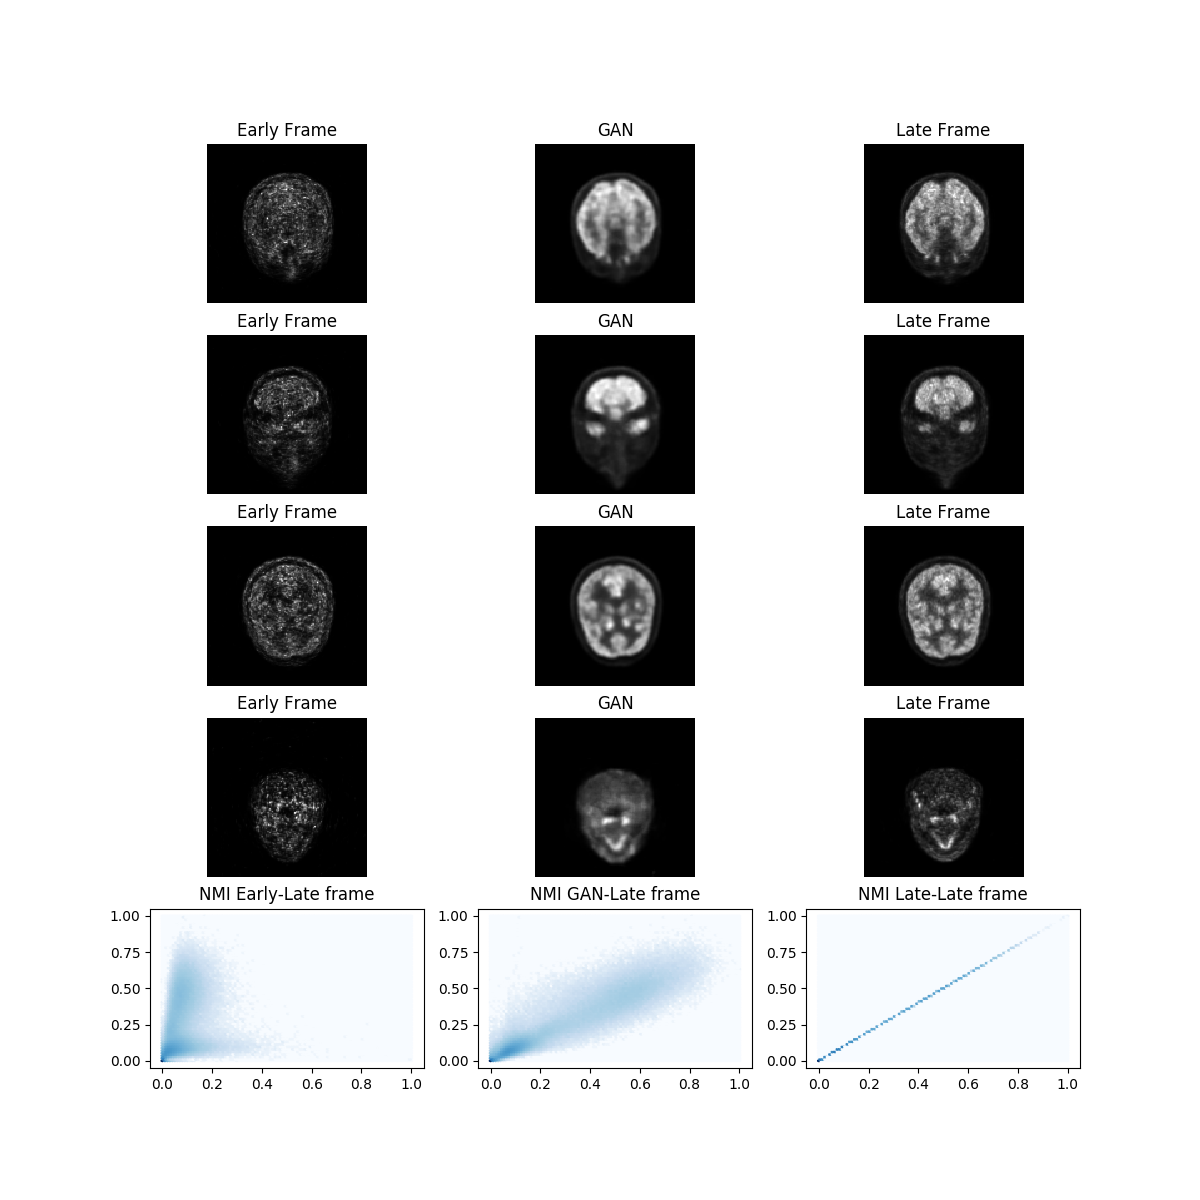
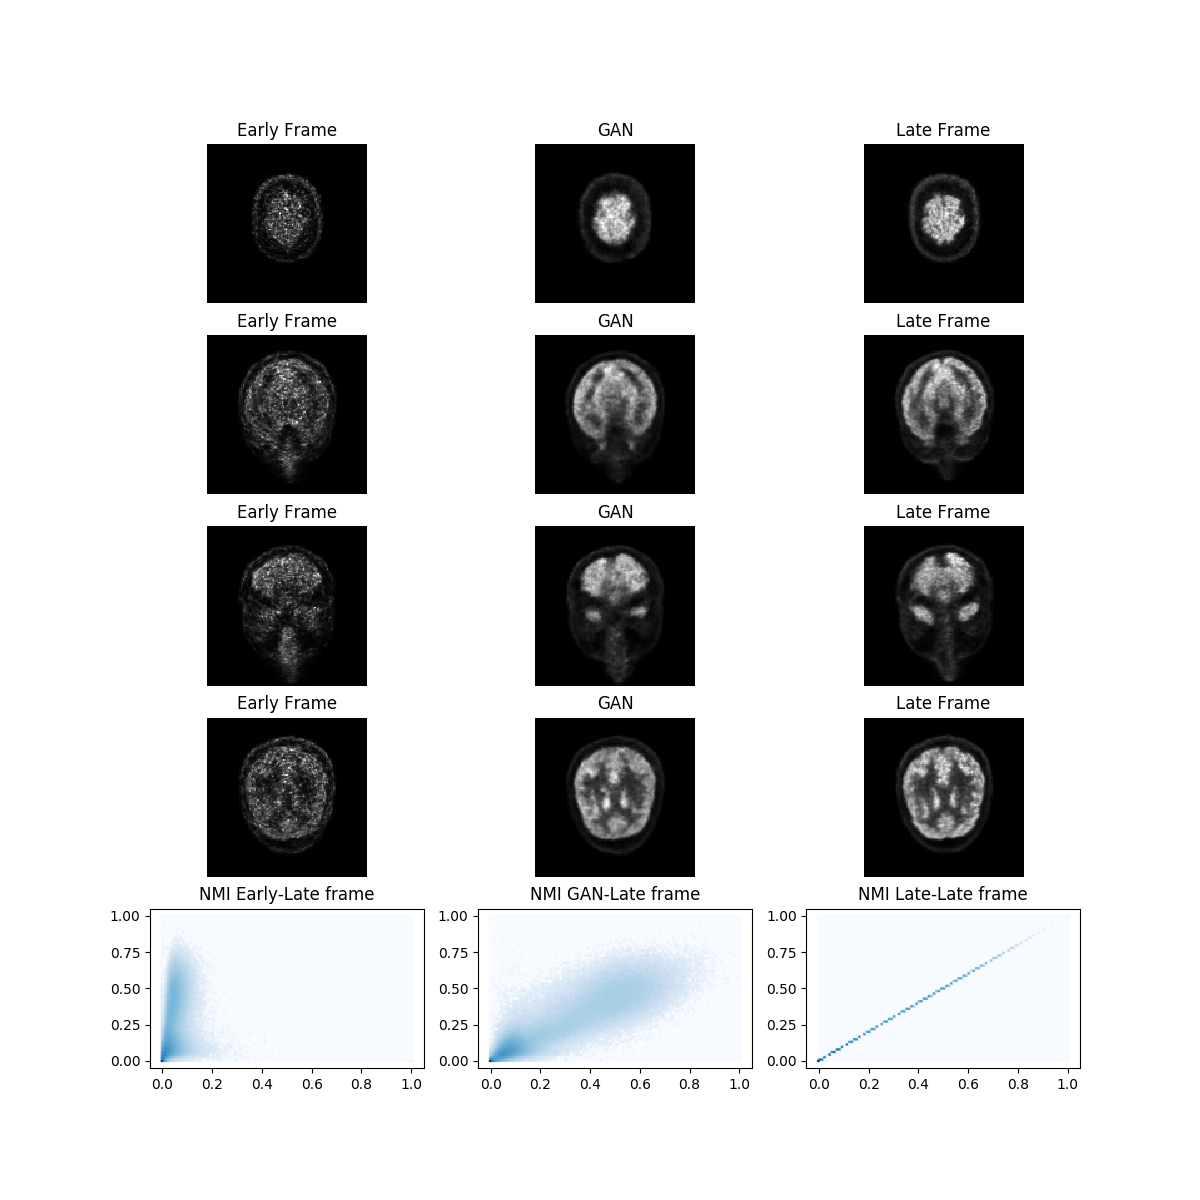
definive update

diff --git a/predict_single_image.py b/predict_single_image.py
@@ -23,10 +23,10 @@ from collections import OrderedDict
 
 parser = argparse.ArgumentParser()
 parser.add_argument('--multi_gpu', default=True, help='Multi or single Gpu')
-parser.add_argument('--gpu_id', default='2,3', help='Select the GPU')
-parser.add_argument("--image", type=str, default='./Data_folder/image.nii')
+parser.add_argument('--gpu_id', default='1', help='Select the GPU')
+parser.add_argument("--image", type=str, default='./Data_folder/test/patient_5/image.nii')
 parser.add_argument("--label", type=str, default=None)
-parser.add_argument("--result", type=str, default='./Data_folder/result.nii', help='path to the .nii result to save')
+parser.add_argument("--result", type=str, default='./Data_folder/test/patient_5/result.nii', help='path to the .nii result to save')
 parser.add_argument("--weights", type=str, default='./checkpoints/g_epoch_200.pth', help='generator weights to load')
 parser.add_argument("--resample", default=False, help='Decide or not to resample the images to a new resolution')
 parser.add_argument("--new_resolution", type=float, default=(0.625, 0.625, 1), help='New resolution')
@@ -180,11 +180,15 @@ def inference(write_image, model, image_path, label_path, result_path, resample,
         for i in range(len(batches)):
             batch = batches[i]
 
+            batch = (batch - 127.5) / 127.5
+
             batch = torch.from_numpy(batch[np.newaxis, :, :, :])
             batch = Variable(batch.cuda())
 
             pred = model(batch)
             pred = pred.squeeze().data.cpu().numpy()
+
+            pred = (pred * 127.5) + 127.5
 
             istart = ijk_patch_indices[i][0][0]
             iend = ijk_patch_indices[i][0][1]
@@ -199,11 +203,15 @@ def inference(write_image, model, image_path, label_path, result_path, resample,
         for i in tqdm(range(len(batches))):
             batch = batches[i]
 
+            batch = (batch - 127.5) / 127.5
+
             batch = torch.from_numpy(batch[np.newaxis, :, :, :])
             batch = Variable(batch.cuda())
 
             pred = model(batch)
             pred = pred.squeeze().data.cpu().numpy()
+
+            pred = (pred * 127.5) + 127.5
 
             istart = ijk_patch_indices[i][0][0]
             iend = ijk_patch_indices[i][0][1]

diff --git a/generators.py b/generators.py
@@ -122,8 +122,8 @@ class ResnetGenerator(nn.Module):
         # model += [nn.ReflectionPad2d(3)]
         model += [nn.ReplicationPad3d(3)]
         model += [nn.Conv3d(ngf, output_nc, kernel_size=7, padding=0)]
-        # model += [nn.Tanh()]
-        model += [nn.ReLU()]
+        model += [nn.Tanh()]
+
 
         self.model = nn.Sequential(*model)
 
@@ -250,7 +250,7 @@ class UnetSkipConnectionBlock(nn.Module):
         if outermost:
             upconv = nn.ConvTranspose3d(inner_nc * 2, outer_nc, kernel_size=4, stride=2, padding=1)
             down = [downconv]
-            up = [uprelu, upconv, nn.ReLU(True)]
+            up = [uprelu, upconv, nn.Tanh()]
             model = down + [submodule] + up
         elif innermost:
             upconv = nn.ConvTranspose3d(inner_nc, outer_nc, kernel_size=4, stride=2, padding=1, bias=use_bias)
@@ -304,7 +304,7 @@ if __name__ == '__main__':
 
     net = generator.cuda().eval()
 
-    data = Variable(torch.randn(opt.batch_size[0], opt.img_channel, opt.patch_size[0], opt.patch_size[1], opt.patch_size[2])).cuda()
+    data = Variable(torch.randn(int(opt.batch_size), int(opt.img_channel), int(opt.patch_size[0]), int(opt.patch_size[1]), int(opt.patch_size[2]))).cuda()
 
     out = net(data)
 

diff --git a/train.py b/train.py
@@ -157,9 +157,7 @@ for epoch in range(opt.epoch_count, opt.niter + opt.niter_decay + 1):
         # Second, G(A) = B
         loss_g_l1 = criterion_pixelwise(fake_b, real_b) * opt.lamb
 
-        costrain = Cor_CoeLoss(fake_b, real_b) * opt.lamb
-
-        generator_total_loss = loss_g_gan + loss_g_l1 + costrain
+        generator_total_loss = loss_g_gan + loss_g_l1
 
         mean_generator_total_loss += generator_total_loss
         generator_total_loss.backward()

diff --git a/discriminators.py b/discriminators.py
@@ -174,7 +174,7 @@ if __name__ == '__main__':
     discriminator = build_netD(opt)
     net = discriminator.cuda().eval()
 
-    data= Variable(torch.randn(opt.batch_size[0], opt.img_channel, opt.patch_size[0], opt.patch_size[1], opt.patch_size[2])).cuda()
+    data= Variable(torch.randn(opt.batch_size, opt.img_channel, opt.patch_size[0], opt.patch_size[1], opt.patch_size[2])).cuda()
 
     data = torch.cat((data, data), 1)
     out = net(data)

diff --git a/utils/NiftiDataset.py b/utils/NiftiDataset.py
@@ -477,6 +477,9 @@ class NifitDataSet(torch.utils.data.Dataset):
         image_np = np.transpose(image_np, (2, 1, 0))
         label_np = np.transpose(label_np, (2, 1, 0))
 
+        label_np = (label_np - 127.5) / 127.5
+        image_np = (image_np - 127.5) / 127.5
+
         image_np = image_np[np.newaxis, :, :, :]
         label_np = label_np[np.newaxis, :, :, :]
 

diff --git a/Readme.md b/Readme.md
@@ -9,14 +9,7 @@ This is the Torch version of the first repository of PANDA (https://github.com/L
 
 ![PANDA-workflow](Images/PANDA-workflow.png)
 
-# Examples
 
-Sample images (axial and coronal views): on the left side are the early PET frames, in the middle the output of the 3D GAN and on the right side the corresponding late PET frame
-
-![Low dose](Images/low_dose_axial.gif)![GAN](Images/gan_axial.gif)![High dose](Images/high_dose_axial.gif)
-*******************************************************************************
-![Low dose](Images/low_dose_coronal.gif)![GAN](Images/gan_coronal.gif)![High dose](Images/high_dose_coronal.gif)
-*******************************************************************************
 # Requirements
 
 - MATLAB R2016a or higher
